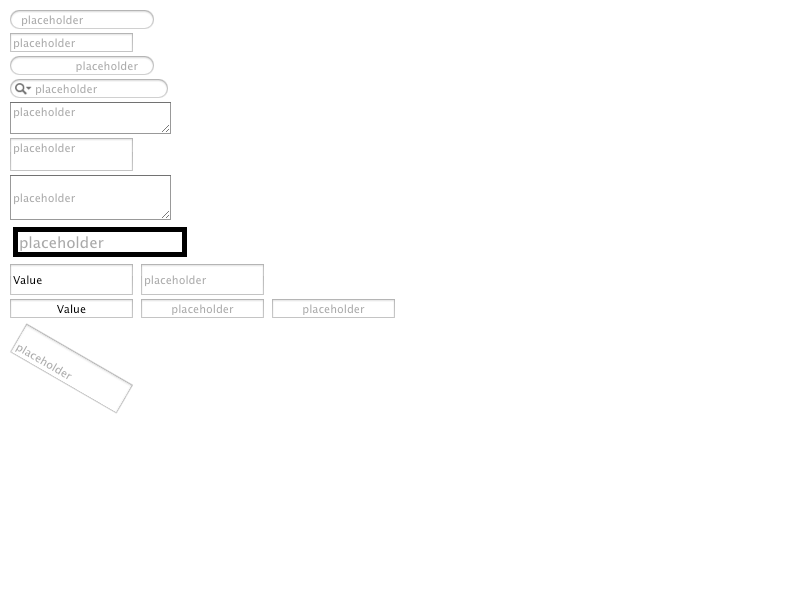
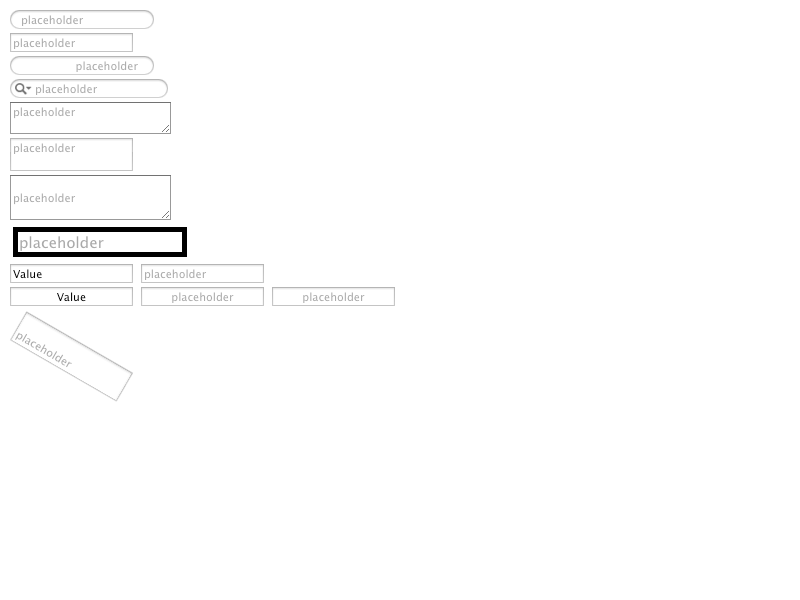
defining line height affects height of text box https://bugs.webkit.org/show_bug.cgi?id=17619
Patch by Gurpreet Kaur <k.gurpreet@samsung.com> on 2013-09-08
Reviewed by Darin Adler.

Source/WebCore:

Giving line height to input elements increase the height
of the element. To make it work similiar as Mozilla and IE
line-height :normal should be applied for input elements.

Test: fast/dom/HTMLInputElement/input-line-height.html

* css/html.css:
(input):
Made the line-height: normal as !important so that it does not
consider any other line-height specified through internal or
external styles.

LayoutTests:

* fast/dom/HTMLInputElement/input-line-height-expected.txt: Added.
* fast/dom/HTMLInputElement/input-line-height.html: Added.

Added new test for verifying that giving line-height to input element
has no affect on its height.

* fast/forms/placeholder-position-expected.txt:
* platform/mac/fast/forms/placeholder-position-expected.png:

Rebaselining existing tests as per the new behavior. The position
of input elements have been modified since line-height is not being
considered.

Identifier: 138922@main
git-svn-id: https://svn.webkit.org/repository/webkit/trunk@155324 268f45cc-cd09-0410-ab3c-d52691b4dbfc

diff --git a/LayoutTests/fast/dom/HTMLInputElement/input-line-height.html b/LayoutTests/fast/dom/HTMLInputElement/input-line-height.html
@@ -1,0 +1,72 @@
+<!DOCTYPE html>
+<html>
+    <head>
+        <script src="../../js/resources/js-test-pre.js"></script>
+        <script>
+		    function runTest() {
+                description('Tests that line-height is not applied for input element');
+                                
+                shouldBe("window.getComputedStyle(document.getElementById('tagButton'),null).getPropertyValue('line-height')","document.getElementById('tagButton').style.lineHeight");
+                shouldNotBe("window.getComputedStyle(document.getElementById('inputButton'),null).getPropertyValue('line-height')","document.getElementById('inputButton').style.lineHeight");
+                shouldNotBe("window.getComputedStyle(document.getElementById('inputText'),null).getPropertyValue('line-height')","document.getElementById('inputText').style.lineHeight");
+                shouldNotBe("window.getComputedStyle(document.getElementById('inputSubmit'),null).getPropertyValue('line-height')","document.getElementById('inputSubmit').style.lineHeight");
+                shouldNotBe("window.getComputedStyle(document.getElementById('inputReset'),null).getPropertyValue('line-height')","document.getElementById('inputReset').style.lineHeight");
+                shouldNotBe("window.getComputedStyle(document.getElementById('inputPassword'),null).getPropertyValue('line-height')","document.getElementById('inputPassword').style.lineHeight");
+                shouldNotBe("window.getComputedStyle(document.getElementById('inputSearch'),null).getPropertyValue('line-height')","document.getElementById('inputSearch').style.lineHeight");
+                shouldNotBe("window.getComputedStyle(document.getElementById('inputHidden'),null).getPropertyValue('line-height')","document.getElementById('inputHidden').style.lineHeight");
+                shouldNotBe("window.getComputedStyle(document.getElementById('inputDate'),null).getPropertyValue('line-height')","document.getElementById('inputDate').style.lineHeight");
+                shouldNotBe("window.getComputedStyle(document.getElementById('inputDateTime'),null).getPropertyValue('line-height')","document.getElementById('inputDateTime').style.lineHeight");
+                shouldNotBe("window.getComputedStyle(document.getElementById('inputDateTimeLocal'),null).getPropertyValue('line-height')","document.getElementById('inputDateTimeLocal').style.lineHeight");
+                shouldNotBe("window.getComputedStyle(document.getElementById('inputMonth'),null).getPropertyValue('line-height')","document.getElementById('inputMonth').style.lineHeight");
+                shouldNotBe("window.getComputedStyle(document.getElementById('inputTime'),null).getPropertyValue('line-height')","document.getElementById('inputTime').style.lineHeight");
+                shouldNotBe("window.getComputedStyle(document.getElementById('inputWeek'),null).getPropertyValue('line-height')","document.getElementById('inputWeek').style.lineHeight");
+                shouldNotBe("window.getComputedStyle(document.getElementById('inputImage'),null).getPropertyValue('line-height')","document.getElementById('inputImage').style.lineHeight");
+                shouldNotBe("window.getComputedStyle(document.getElementById('inputFile'),null).getPropertyValue('line-height')","document.getElementById('inputFile').style.lineHeight");
+                shouldNotBe("window.getComputedStyle(document.getElementById('inputRadio'),null).getPropertyValue('line-height')","document.getElementById('inputRadio').style.lineHeight");
+                shouldNotBe("window.getComputedStyle(document.getElementById('inputCheckbox'),null).getPropertyValue('line-height')","document.getElementById('inputCheckbox').style.lineHeight");
+                shouldNotBe("window.getComputedStyle(document.getElementById('inputRange'),null).getPropertyValue('line-height')","document.getElementById('inputRange').style.lineHeight");
+                shouldNotBe("window.getComputedStyle(document.getElementById('inputColor'),null).getPropertyValue('line-height')","document.getElementById('inputColor').style.lineHeight");
+                shouldNotBe("window.getComputedStyle(document.getElementById('inputEmail'),null).getPropertyValue('line-height')","document.getElementById('inputEmail').style.lineHeight");
+                shouldNotBe("window.getComputedStyle(document.getElementById('inputUrl'),null).getPropertyValue('line-height')","document.getElementById('inputUrl').style.lineHeight");
+                shouldNotBe("window.getComputedStyle(document.getElementById('inputTel'),null).getPropertyValue('line-height')","document.getElementById('inputTel').style.lineHeight");
+                shouldNotBe("window.getComputedStyle(document.getElementById('inputNumber'),null).getPropertyValue('line-height')","document.getElementById('inputNumber').style.lineHeight");
+                shouldNotBe("window.getComputedStyle(document.getElementById('tagSelect'),null).getPropertyValue('line-height')","document.getElementById('tagSelect').style.lineHeight");
+                shouldBe("window.getComputedStyle(document.getElementById('tagTextarea'),null).getPropertyValue('line-height')","document.getElementById('tagTextarea').style.lineHeight");
+				isSuccessfullyParsed();
+            }
+        </script>
+    </head>
+    <body onload="runTest()">
+        <form>
+            <button id="tagButton" style="line-height: 50px">Button</button><br>
+            <input id="inputButton" style="line-height: 50px" type="button" value="Button"/><br>
+            <input id="inputText" style="line-height: 50px" type="text"/><br>
+            <input id="inputSubmit" style="line-height: 50px" type="submit" value="Submit"/><br>
+            <input id="inputReset" style="line-height: 50px" type="reset" value="Reset"/><br>
+            <input id="inputPassword" style="line-height: 50px" type="password"/><br>
+            <input id="inputSearch" style="line-height: 50px" type="search"/><br>
+            <input id="inputHidden" style="line-height: 50px" type="hidden"/><br>
+            <input id="inputDate" style="line-height: 50px" type="date"/><br>
+            <input id="inputDateTime" style="line-height: 50px" type="datetime"/><br>
+            <input id="inputDateTimeLocal" style="line-height: 50px" type="datetime-local"/><br>
+            <input id="inputMonth" style="line-height: 50px" type="month"/><br>
+            <input id="inputTime" style="line-height: 50px" type="time"/><br>
+            <input id="inputWeek" style="line-height: 50px" type="week"/><br>
+            <input id="inputImage" style="line-height: 50px" type="image"/><br>
+            <input id="inputFile" style="line-height: 50px" type="file"/><br>
+            <input id="inputRadio" style="line-height: 50px" type="radio"/><br>
+            <input id="inputCheckbox" style="line-height: 50px" type="checkbox"/><br>
+            <input id="inputRange" style="line-height: 50px" type="range"/><br>
+            <input id="inputColor" style="line-height: 50px" type="color"/><br>
+            <input id="inputEmail" style="line-height: 50px" type="email"/><br>
+            <input id="inputUrl" style="line-height: 50px" type="url"/><br>
+            <input id="inputTel" style="line-height: 50px" type="tel"/><br>
+            <input id="inputNumber" style="line-height: 50px" type="number"/><br>
+            <select id="tagSelect" style="line-height: 50px">
+                <option>A select</option>
+                <option>An option</option>
+            </select><br>
+            <textarea id="tagTextarea" style="line-height: 50px"></textarea><br>
+        </form>       
+    </body>
+</html>

diff --git a/Source/WebCore/css/html.css b/Source/WebCore/css/html.css
@@ -411,6 +411,10 @@ input, textarea, keygen, select, button, isindex {
     text-align: start;
 }
 
+input {
+    line-height: normal !important;
+}
+
 input[type="hidden"] {
     display: none
 }
